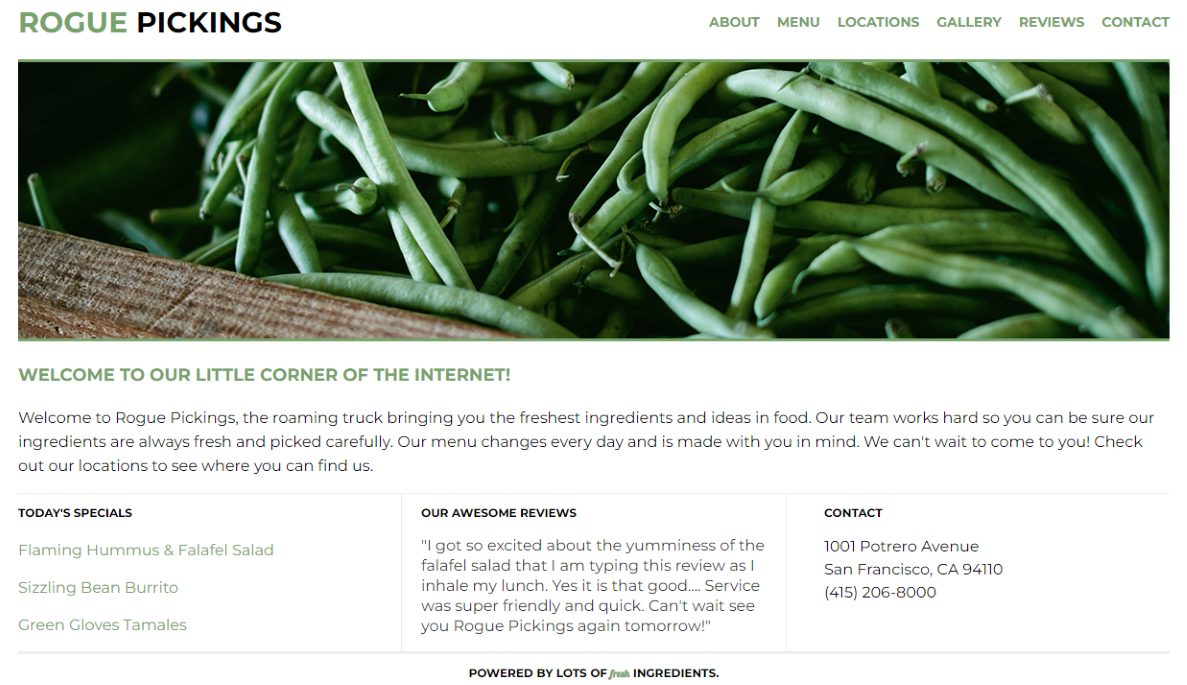
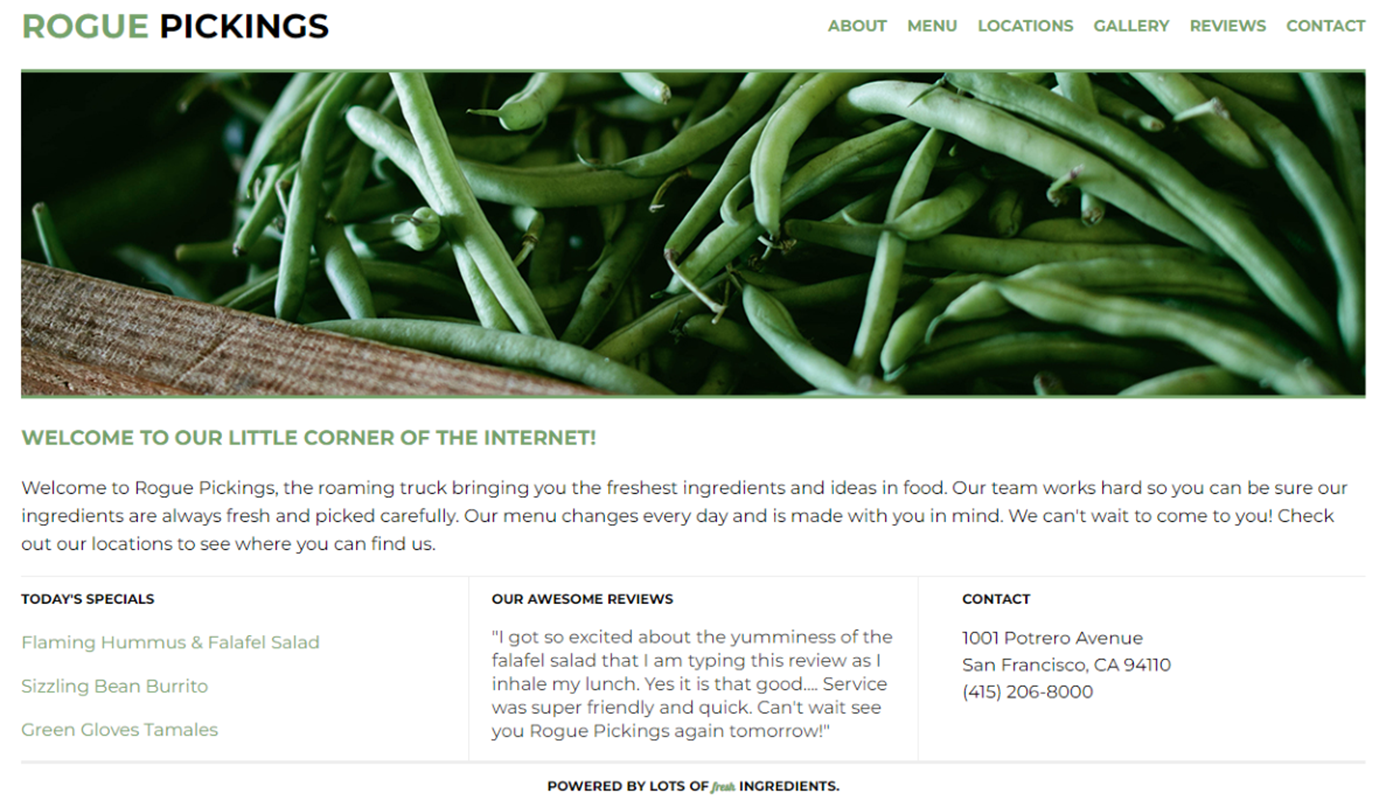
Finished tablet media query

diff --git a/css/main.css b/css/main.css
@@ -55,7 +55,7 @@
    a {
     color: #222;
     text-decoration: none;
-  } 
+  }
 
   img { 
     height: auto;
@@ -87,9 +87,11 @@
    
   header nav ul {
     display: flex;
+    font-weight: bold;
     justify-content: space-around;
     padding: 0;
     margin: 0;
+    text-transform: uppercase;
   }
 
   header h1 {
@@ -195,6 +197,10 @@
     margin: 0 0 40px 0;
   }
 
+  #developer-image {
+    height: 425px;
+  }
+
   #about h3 {
     margin: 0 0 60px 0;
   }
@@ -280,6 +286,17 @@
 
     #work {
       padding: 120px 90px 40px 90px;
+    }
+
+    .work-wrapper {
+      display: flex;
+      justify-content: space-around;
+      align-items: flex-start;
+      flex-flow: row wrap;
+    }
+
+    .work-content {
+      width: 45%;
     }
 
     figure {
